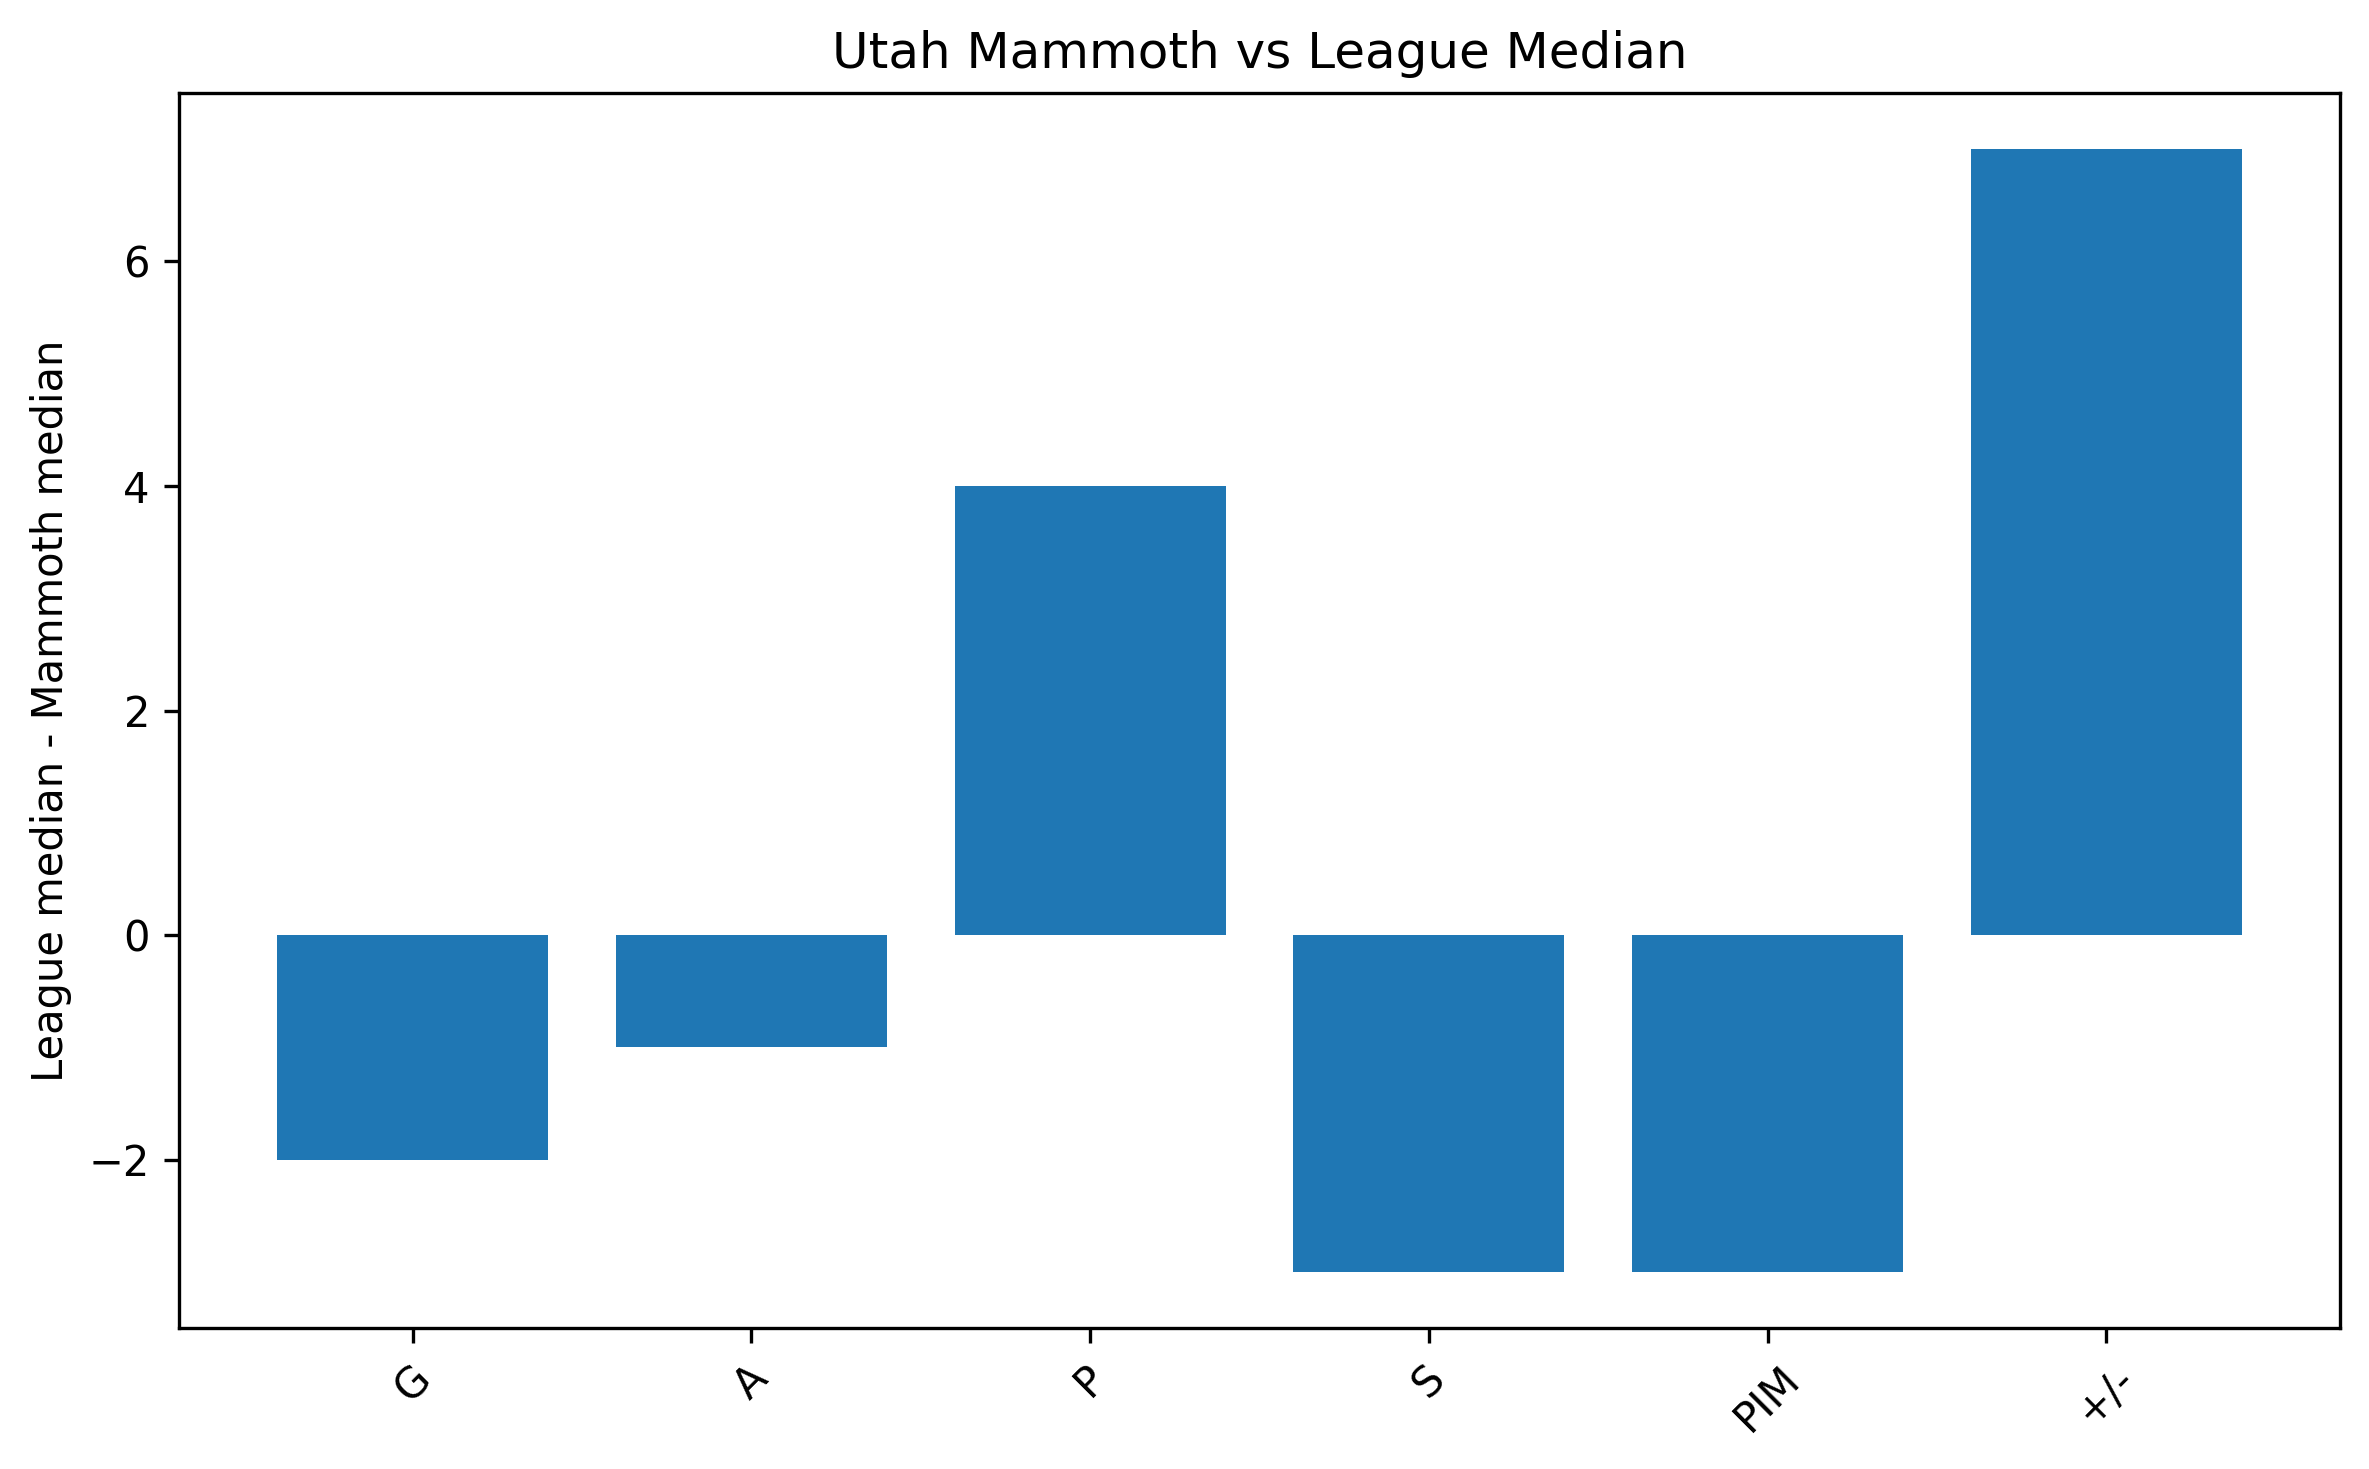
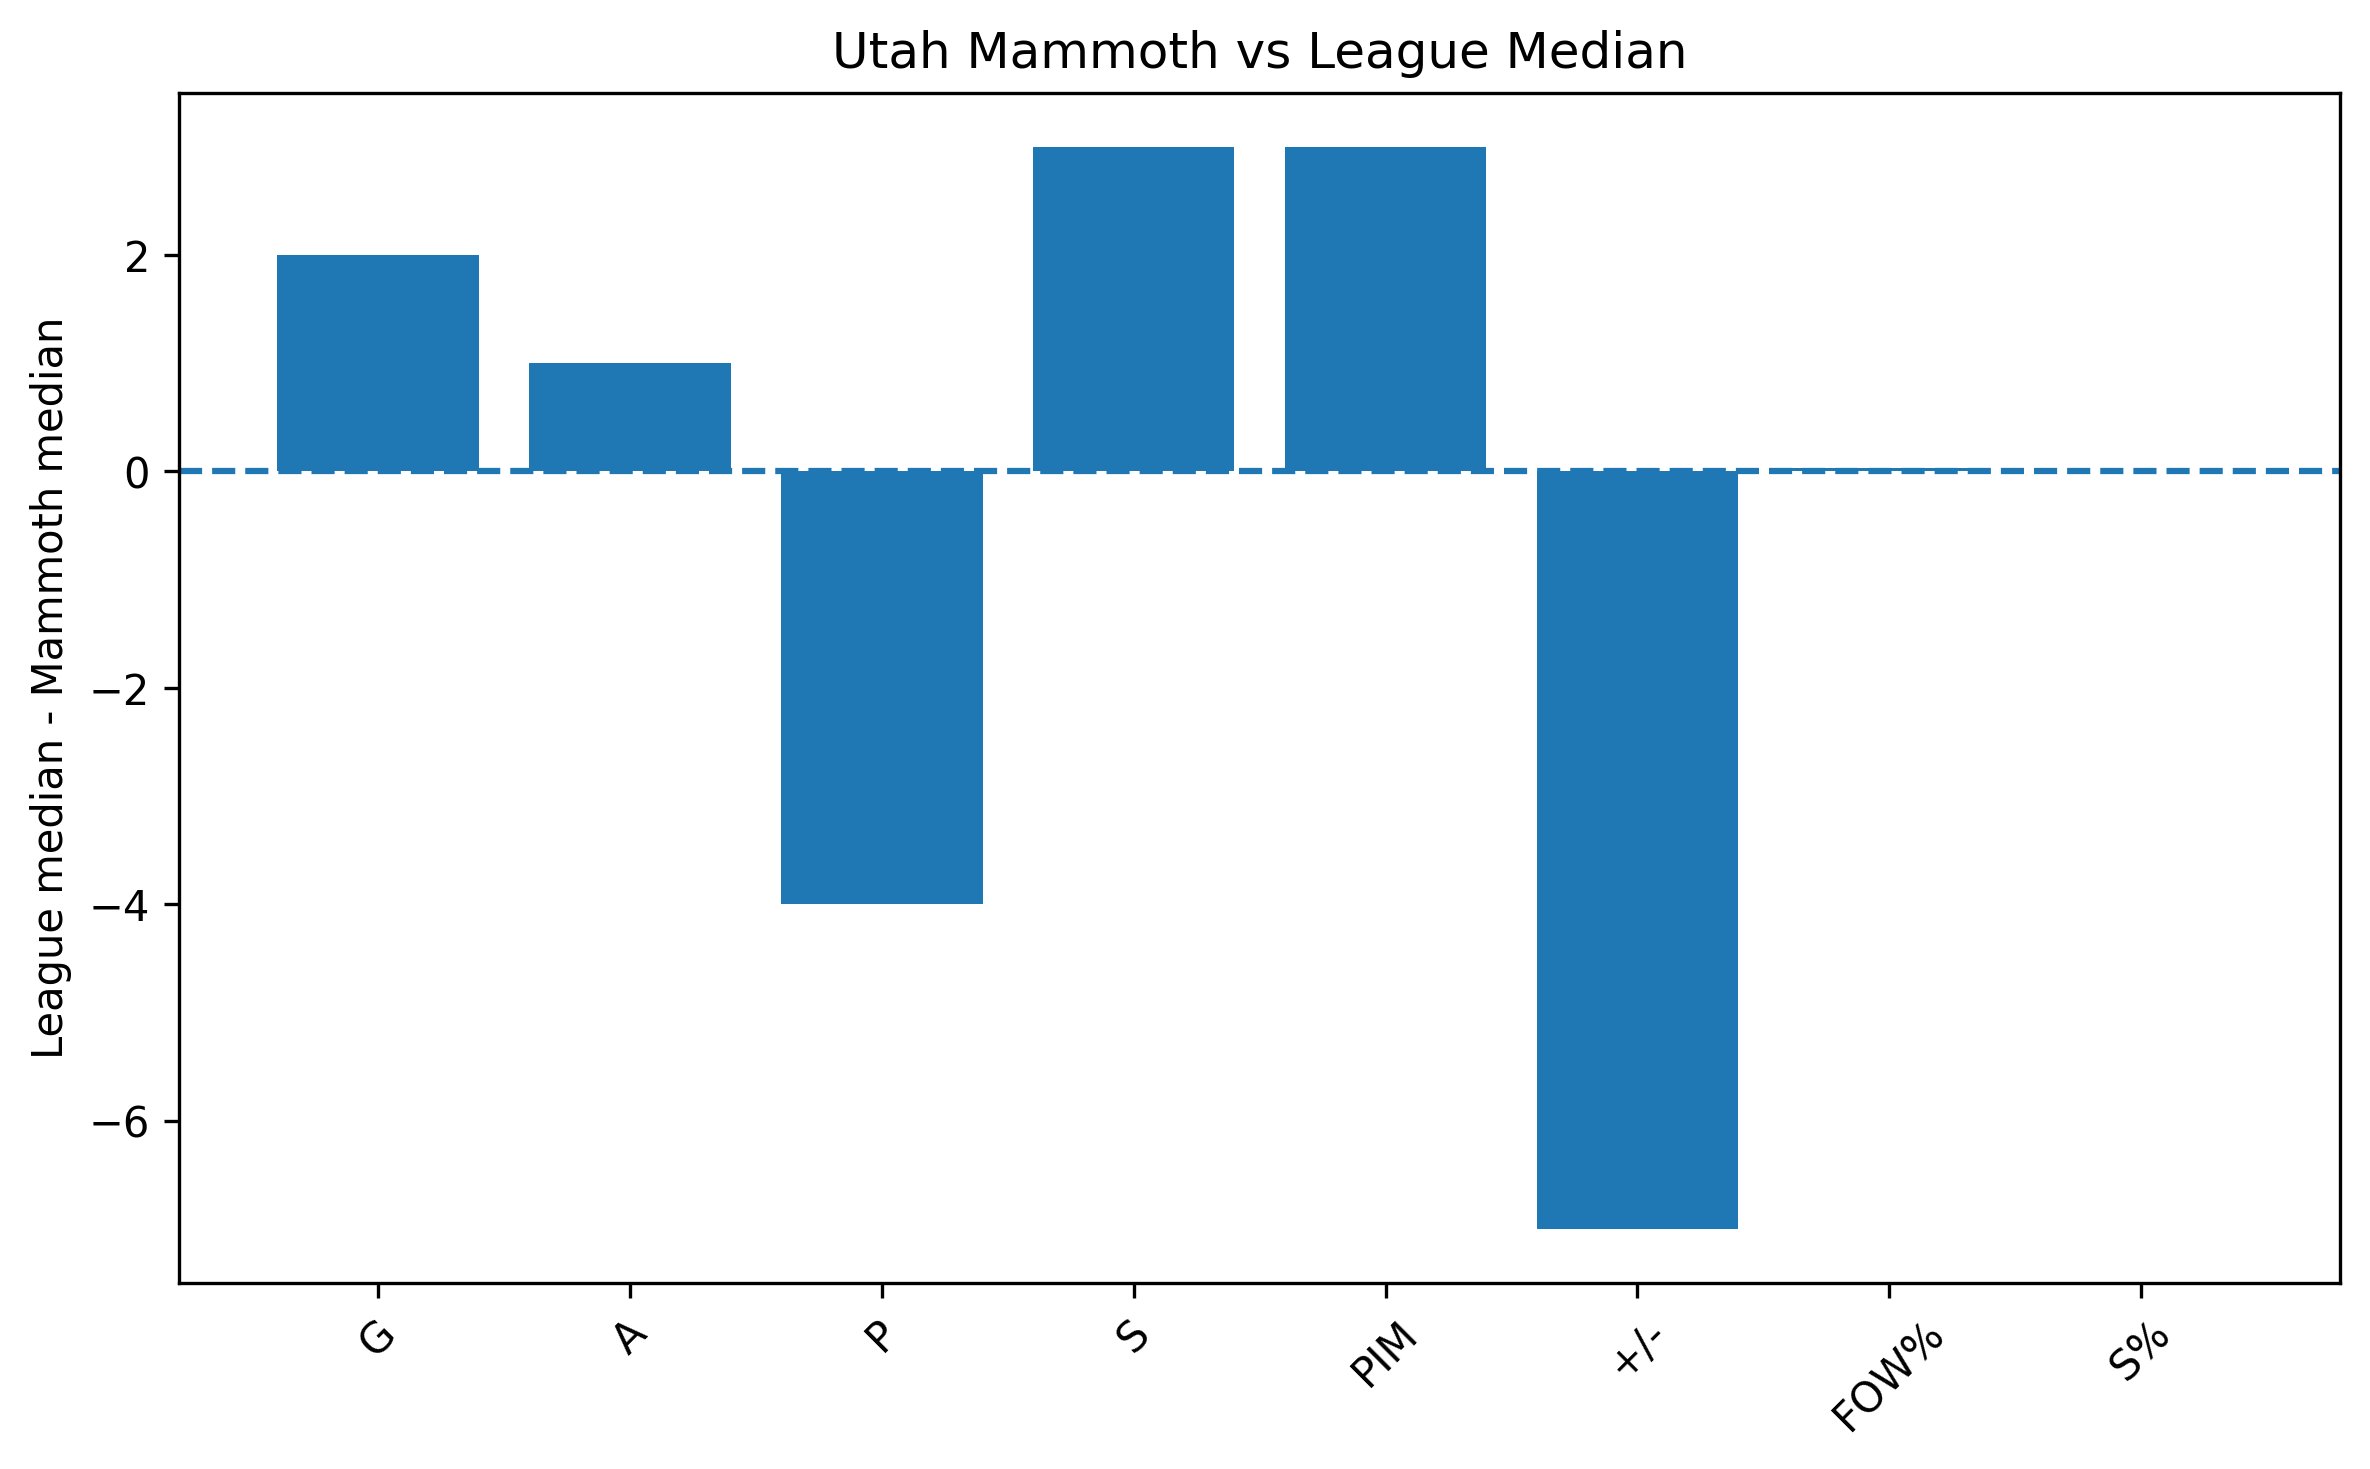
Pushing what I have so far.

diff --git a/analysis.py b/analysis.py
@@ -7,58 +7,32 @@ TEAM_ABBREV = "UTA"   # Utah Mammoth / Utah Hockey Club
 
 def run_analysis_pipeline():
     print("Running analysis pipeline...")
-
-    df = pd.read_csv("nhl_players_cleaned.csv")
-
-    gaps = compute_team_gaps(df, TEAM_ABBREV)
-
-    # print(gaps)
-
+    #Loading the data
+    df = pd.read_csv("src/nhl_vis_386/nhl_players_cleaned.csv")
+    gaps = compute_team_gaps(df, "UTA" )
+    #Team v League
     fig = plot_team_gaps(gaps)
     fig.savefig("mammoth_gaps.png", dpi=300, bbox_inches="tight")
-
-    for pos in ["R", "C", "L", "D"]:
-      gaps = compute_team_gaps_pos(df, "UTA", pos)
-
-    posfig = plot_position_gaps(gaps, pos)
-    posfig.savefig(f"mammoth_gaps{pos}.png", dpi = 300)
-
-    fig = scatter_metric_by_position(df, "UTA", "F", "TOI/GP", "P/GP")
-    fig.savefig("scatter_F_TOI_PGP.png", dpi=300)
-
-
-    # Defense
-    gaps_D = compute_team_gaps_pos(df, "UTA", "D")
-    # gaps_D.to_csv("mammoth_defense_gaps.csv")
-    # print(gaps_D)
-    fig = plot_position_gaps(gaps_D, "D")
-    fig.savefig("gaps_D.png", dpi = 300)
-
+    #Separated by Forwards and Defensevemen
     #Forwards
     forward_gaps = compute_all_forward_gaps(df, "UTA")
-    # forward_gaps.to_csv("mammoth_gaps_all_forwards.csv", index=False)
-
     fig = plot_all_forward_gaps(forward_gaps)
-    fig.savefig("mammoth_gaps_all_forwards.png", dpi=300)
-
-
-    # Forwards (separated)
+    fig.savefig("forwards_mammoth_gaps.png", dpi=300)
+    # Forwards  and Defense (separated)
     for pos in ["C", "L", "R"]:
-
+      print(f"Running for Position: {pos}")
       gaps = compute_forward_position_gaps(df, "UTA", pos)
-
-      # gaps.to_csv(f"mammoth_gaps_{pos}.csv", index=False)
-
       fig = plot_forward_position_gaps(gaps, pos)
-      fig.savefig(f"mammoth_gaps_{pos}.png", dpi=300)
-
+      fig.savefig(f"{pos}_mammoth_gaps.png", dpi=300)
+    #Scatterplot of Forwards
+    fig = scatter_metric_by_position(df, "UTA", "F", "TOI/GP", "P/GP")
+    fig.savefig("scatter_F_TOI_PGP.png", dpi=300)
 
     print("All analyses complete!")
     print("Outputs written to current directory.")
 
-
 def compute_team_gaps(df, team_abbrev):
-    metrics = ["G", "A", "P", "S", "PIM", "+/-"]
+    metrics = ["G", "A", "P", "S", "PIM", "+/-", "FOW%", "S%"]
 
     team = df[df["Team"] == team_abbrev]
     league = df
@@ -68,9 +42,8 @@ def compute_team_gaps(df, team_abbrev):
         "league_median": league[metrics].median(),
     })
 
-    df_out["gap"] = df_out["league_median"] - df_out["team_median"]
+    df_out["gap"] = df_out["team_median"] - df_out["league_median"]
     return df_out
-
 
 def plot_team_gaps(gaps):
     fig, ax = plt.subplots(figsize=(8, 5))
@@ -79,12 +52,13 @@ def plot_team_gaps(gaps):
     ax.set_title("Utah Mammoth vs League Median")
     ax.set_ylabel("League median - Mammoth median")
     ax.tick_params(axis="x", rotation=45)
+    ax.axhline(0, linestyle="--")
 
     fig.tight_layout()
     return fig
 
 def compute_team_gaps_pos(df, team_abbrev, position):
-    metrics = ["G", "A", "P", "S", "PIM", "+/-"]
+    metrics = ["G", "A", "P", "S", "PIM", "+/-", "FOW%", "S%"]
 
     results = []
 
@@ -103,14 +77,12 @@ def compute_team_gaps_pos(df, team_abbrev, position):
           results.append({
             "metric": metric, 
             "position": pos, 
-            "gap":league[metric].median() - team[metric].median()
+            "gap":team[metric].median() - league[metric].median()
           })
-
     return pd.DataFrame(results)
 
-
 def plot_position_gaps(gaps, position):
-    fig, ax = plt.subplots(figsize=(10, 5))
+    fig, ax = plt.subplots(figsize=(8, 5))
 
     labels = [f"{pos}-{metric}" for pos, metric in zip(gaps["position"], gaps.index)]
 
@@ -124,40 +96,20 @@ def plot_position_gaps(gaps, position):
     fig.tight_layout()
     return fig
 
-def plot_forward_metric_groups(gaps):
-    fig, ax = plt.subplots(figsize=(10, 5))
-
-    metrics = gaps["metric"].unique()
-    positions = ["C", "L", "R"]
-    width = 0.25
-
-    for i, pos in enumerate(positions):
-        pos_data = gaps[gaps["position"] == pos]
-        ax.bar(
-            range(len(metrics)),
-            pos_data["gap"],
-            width=width,
-            label=pos,
-            offset=width * i
-        )
-
-    ax.set_xticks([r + width for r in range(len(metrics))])
-    ax.set_xticklabels(metrics)
-    ax.axhline(0, linestyle="--")
-
-    ax.set_title("Utah Mammoth vs League Median — Forwards")
-    ax.set_ylabel("League median − Mammoth median")
-    ax.legend()
-
-    fig.tight_layout()
-    return fig
-
-
-
 def scatter_metric_by_position(df, team_abbrev, position, x, y):
     df_pos = df[df["Pos"] == position]
 
     fig, ax = plt.subplots(figsize=(7, 6))
+
+    if position == "F":
+        df_pos = df[df["Pos"].isin(["C", "L", "R"])]
+    else:
+        df_pos = df[df["Pos"] == position]
+
+    # Safety check
+    if df_pos.empty:
+        raise ValueError(f"No data found for position '{position}'")
+
 
     league = df_pos[df_pos["Team"] != team_abbrev]
     team = df_pos[df_pos["Team"] == team_abbrev]
@@ -174,7 +126,7 @@ def scatter_metric_by_position(df, team_abbrev, position, x, y):
     return fig
 
 def compute_all_forward_gaps(df, team_abbrev):
-    metrics = ["G", "A", "P", "S", "PIM", "+/-"]
+    metrics = ["G", "A", "P", "S", "PIM", "+/-", "FOW%", "S%"]
 
     df_forwards = df[df["Pos"].isin(["C", "L", "R"])]
 
@@ -182,7 +134,7 @@ def compute_all_forward_gaps(df, team_abbrev):
     league = df_forwards
 
     gaps = {
-        metric: league[metric].median() - team[metric].median()
+        metric: team[metric].median() - league[metric].median()
         for metric in metrics
     }
 
@@ -204,10 +156,8 @@ def plot_all_forward_gaps(gaps):
     fig.tight_layout()
     return fig
 
-
-
 def compute_forward_position_gaps(df, team_abbrev, position):
-    metrics = ["G", "A", "P", "S", "PIM", "+/-"]
+    metrics = ["G", "A", "P", "S", "PIM", "+/-", "FOW%", "S%"]
 
     df_pos = df[df["Pos"] == position]
 
@@ -215,7 +165,7 @@ def compute_forward_position_gaps(df, team_abbrev, position):
     league = df_pos
 
     gaps = {
-        metric: league[metric].median() - team[metric].median()
+        metric: team[metric].median() - league[metric].median()
         for metric in metrics
     }
 
@@ -236,7 +186,6 @@ def plot_forward_position_gaps(gaps, position):
 
     fig.tight_layout()
     return fig
-
 
 if __name__ == "__main__":
     run_analysis_pipeline()
